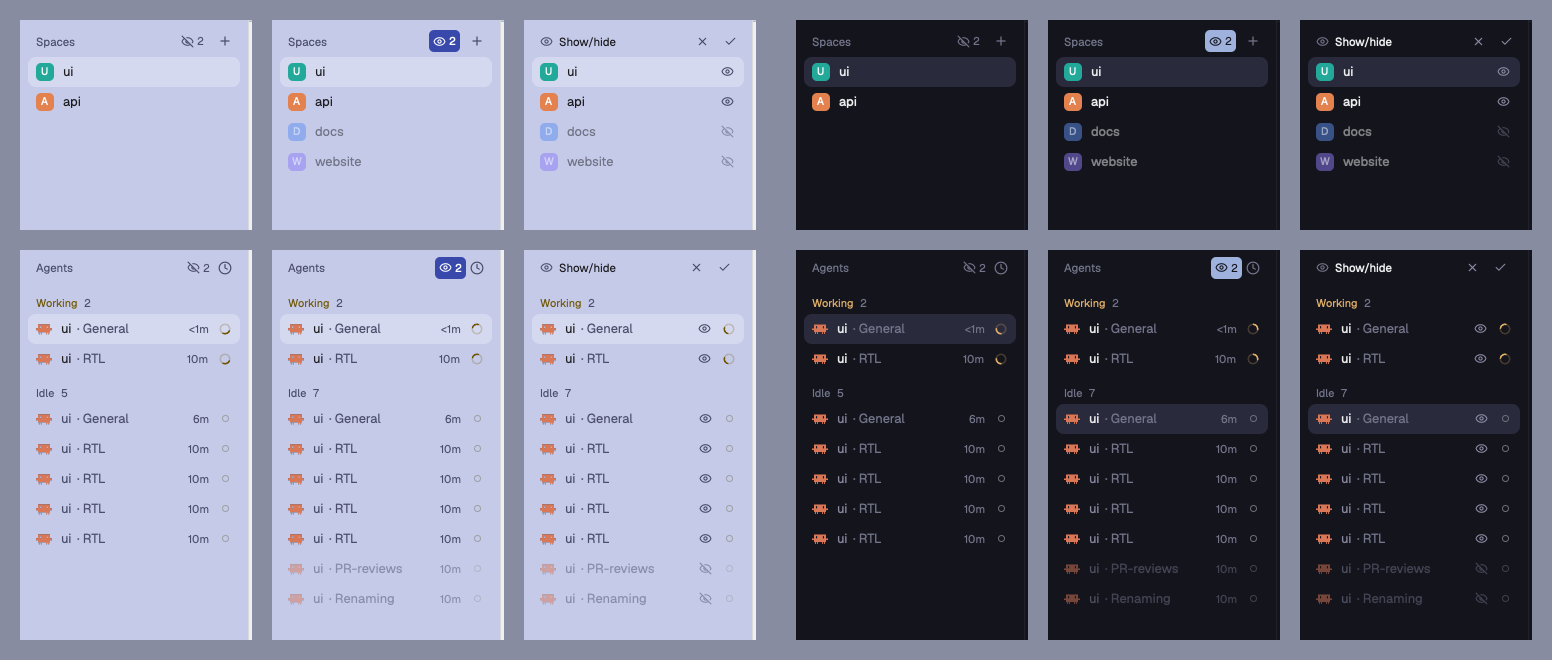
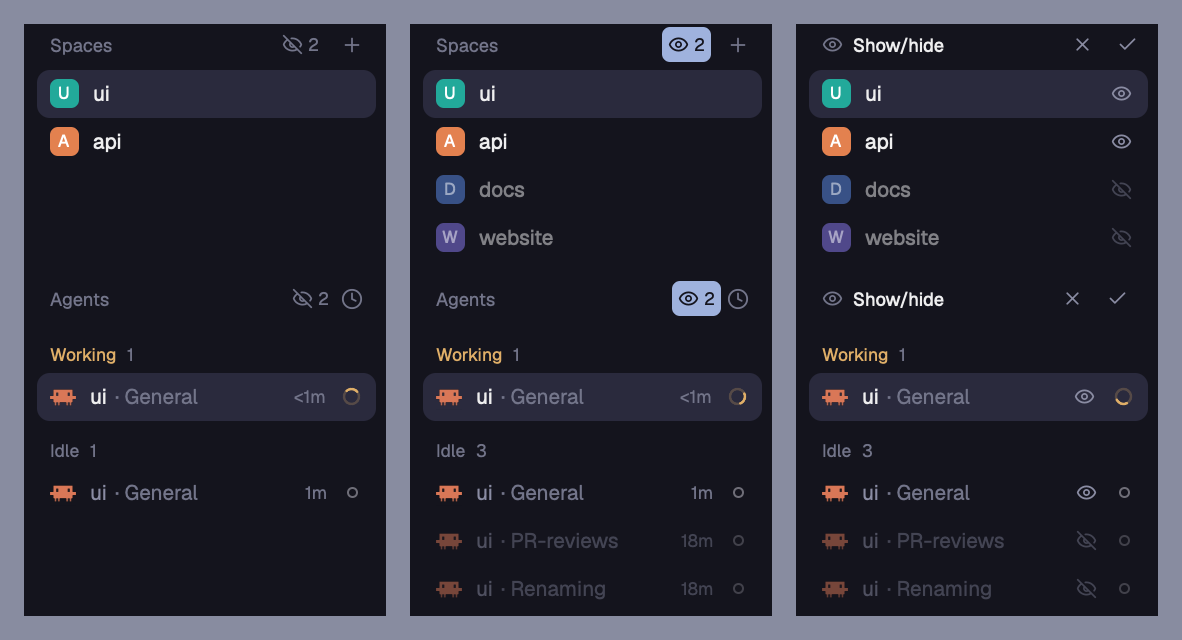
Preview: three larger columns (normal, reveal, show/hide) instead of six small ones

diff --git a/README.md b/README.md
@@ -4,7 +4,7 @@ Hide the spaces and agents you do not want to see in Herdr's sidebar. Each
 list gets an eye in its header. Click it, and every row gets its own eye: hide
 what you do not need, then save, or discard to undo.
 
-![Sidebar show/hide in light and dark](preview.png)
+![Sidebar show/hide: normal, revealed, and show/hide mode](preview.png)
 
 ## What it does
 
